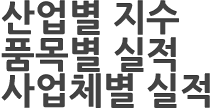
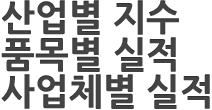
images fixed

diff --git a/KOSTAT_WEB/WebContent/css/style_chart.css b/KOSTAT_WEB/WebContent/css/style_chart.css
@@ -298,7 +298,7 @@ html, body {
 	height: 36px;
 	top: 6px;
 	position: relative;
-	background: url("../images/main-c-category-title.png") 0 -72px no-repeat;
+	background: url("../images/main-c-category-title.png") 0 -73px no-repeat;
 }
 .l-chart {
 	-webkit-box-sizing: border-box;
